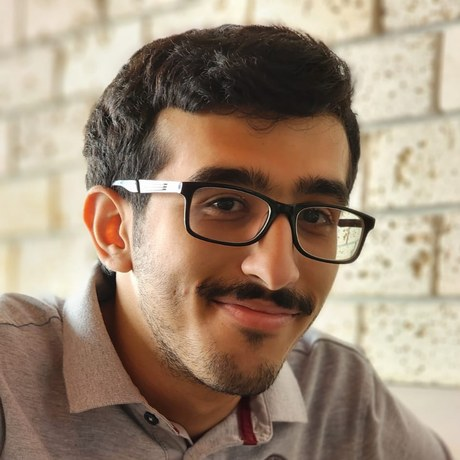
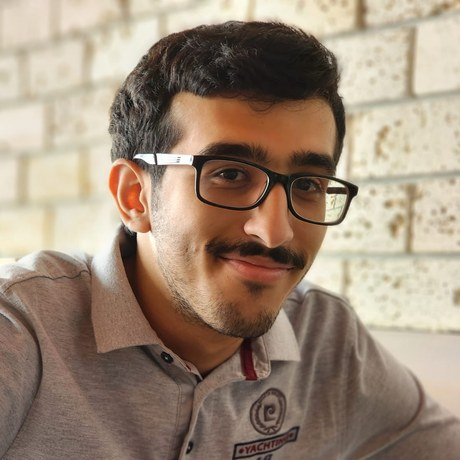
Cite the three matching algorithms, new tagline, zoom out photo

diff --git a/_publications/2026-weighted-matching.md b/_publications/2026-weighted-matching.md
@@ -13,8 +13,17 @@ Maximum weighted matching in general (non-bipartite) graphs is a classical probl
 
 This paper, advised by Dr. Ahmed Al-Herz at KFUPM, compares three exact implementations that I wrote in C++:
 
-- **Edmonds**, following Galil, Micali, and Gabow's organization of the weighted blossom search
-- **Gabow**, using Gabow's data structures for weighted matching
-- **Scaling**, based on the Hybrid scaling algorithm of Duan, Pettie, and Su for maximum weighted *perfect* matching
+- **Edmonds:** Edmonds' weighted blossom algorithm [1, 2], organized along the lines of Galil, Micali, and Gabow's O(EV log V) algorithm [3]
+- **Gabow:** the same search, using Gabow's data structures for weighted matching [4, 5]
+- **Scaling:** the Hybrid scaling algorithm of Duan, Pettie, and Su for maximum weighted *perfect* matching [6]
 
 We ask whether Gabow's theoretical data-structure improvements over Edmonds lead to practical gains in runtime, memory, or completion, and how graph order, density, weight range, and graph structure affect all three algorithms. Every run is checked for optimality against independent LEMON reference solutions.
+
+## References
+
+1. J. Edmonds. [Maximum matching and a polyhedron with 0,1-vertices](https://doi.org/10.6028/jres.069B.013). *Journal of Research of the National Bureau of Standards, Section B*, 69B:125–130, 1965.
+2. J. Edmonds. [Paths, trees, and flowers](https://doi.org/10.4153/CJM-1965-045-4). *Canadian Journal of Mathematics*, 17:449–467, 1965.
+3. Z. Galil, S. Micali, and H. N. Gabow. [An O(EV log V) algorithm for finding a maximal weighted matching in general graphs](https://doi.org/10.1137/0215009). *SIAM Journal on Computing*, 15(1):120–130, 1986.
+4. H. N. Gabow. Data structures for weighted matching and nearest common ancestors with linking. In *Proceedings of the 1st Annual ACM-SIAM Symposium on Discrete Algorithms (SODA)*, pages 434–443, 1990.
+5. H. N. Gabow. [Data structures for weighted matching and extensions to b-matching and f-factors](https://doi.org/10.1145/3183369). *ACM Transactions on Algorithms*, 14(3):39:1–39:80, 2018.
+6. R. Duan, S. Pettie, and H.-H. Su. [Scaling algorithms for weighted matching in general graphs](https://doi.org/10.1145/3155301). *ACM Transactions on Algorithms*, 14(1):8:1–8:35, 2018.
